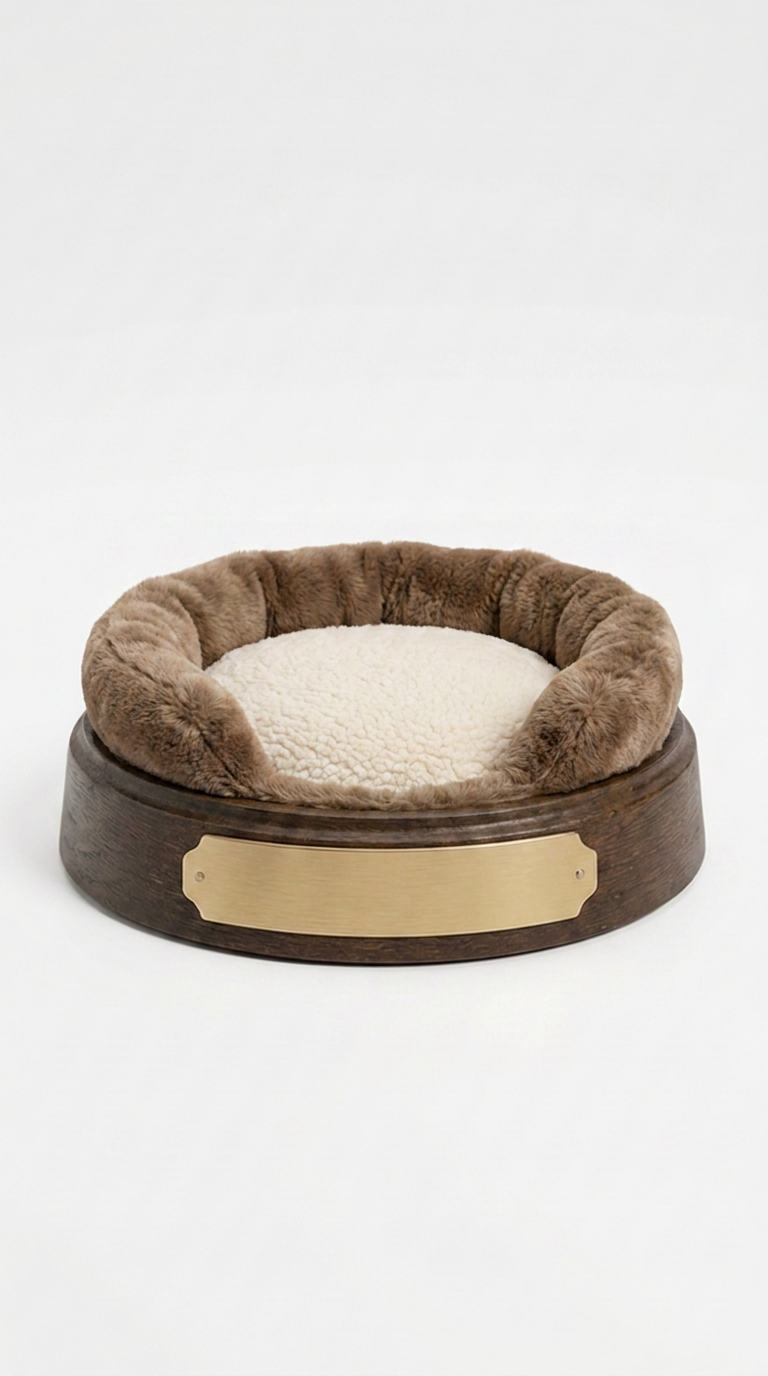
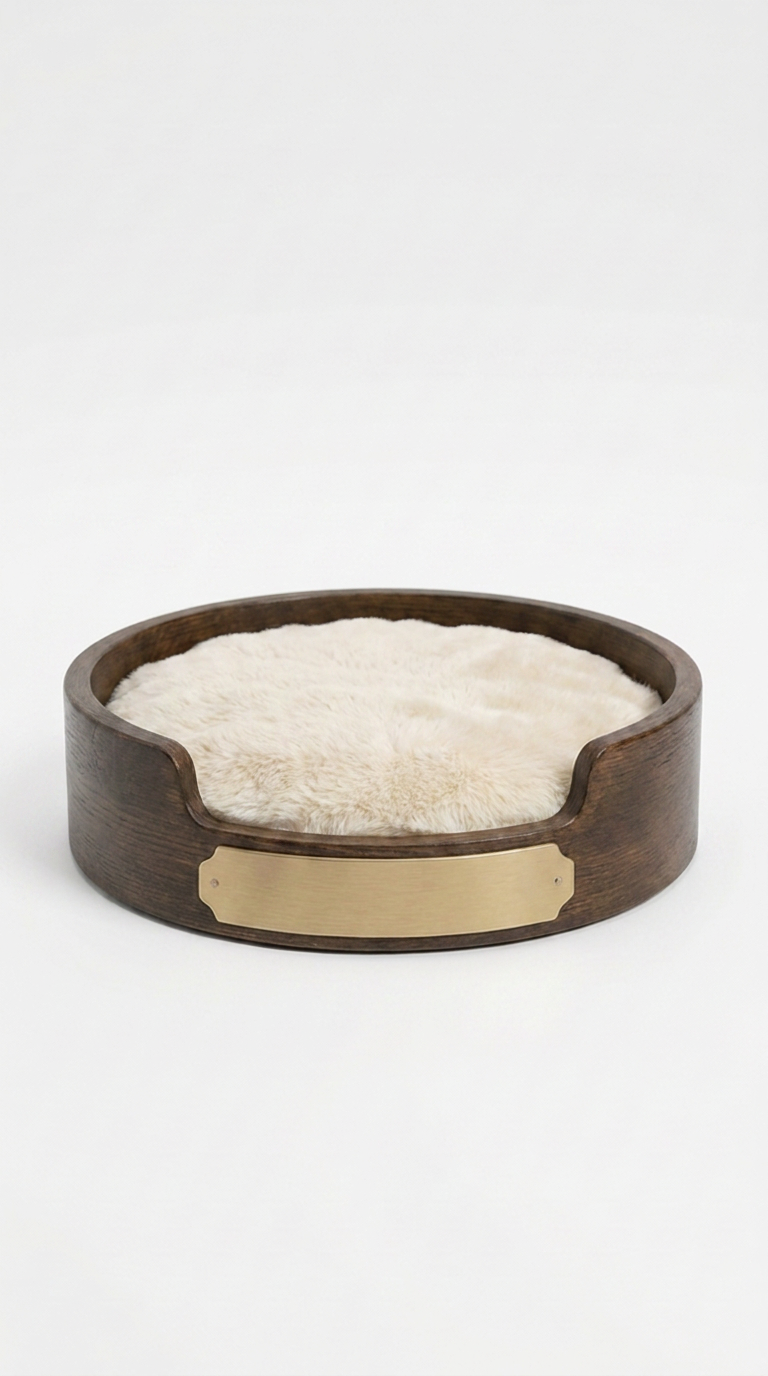
Simplificar posturas a solo Sitting/Standing (ambas gratis) y actualizar refs de bases
Claude-Session: https://claude.ai/code/session_01JMwMtwAF5Dq1gNPtGhZiZV

Changed region(s): [[0.0625, 0.375, 0.9375, 0.7188]]

diff --git a/src/config/products.ts b/src/config/products.ts
@@ -80,9 +80,8 @@ export interface Pose {
 }
 
 export const poses: Pose[] = [
-  { id: "sitting",  label: "Sitting",    price: 0,    prompt: "sitting upright on its hindquarters, facing forward" },
-  { id: "lying",    label: "Lying down", price: 9.99, prompt: "lying down relaxed with its front paws stretched forward" },
-  { id: "standing", label: "Standing",   price: 0,    prompt: "standing naturally on all four legs, facing forward" },
+  { id: "sitting",  label: "Sitting",    price: 0, prompt: "sitting upright on its hindquarters, facing forward" },
+  { id: "standing", label: "Standing",   price: 0, prompt: "standing naturally on all four legs, facing forward" },
 ];
 
 /**
@@ -108,7 +107,7 @@ export const bases: Base[] = [
     label: "Grass top",
     price: 9.99,
     prompt:
-      "on a round wooden display base with a lush, realistic short green grass top filling the whole surface and a polished dark wood rim, with a small blank brushed-gold nameplate on the front edge",
+      "on a round dark wood display base with a lush, realistic short green grass top filling the whole surface, a polished dark wood rim, and a small blank brushed-gold nameplate on the front edge",
     refImage: "/bases/grass-ref.png",
   },
   {
@@ -116,7 +115,7 @@ export const bases: Base[] = [
     label: "Cozy bed",
     price: 9.99,
     prompt:
-      "on a round dark wood display base shaped like a cozy pet bed, with a plush soft brown faux-fur rim and a cream sherpa cushion in the center, and a small blank brushed-gold nameplate on the front edge",
+      "on a round dark wood display base shaped like a cozy pet bed, with a plush cream faux-fur cushion filling the center, a polished dark wood rim, and a small blank brushed-gold nameplate on the front edge",
     refImage: "/bases/cushion-ref.png",
   },
 ];
